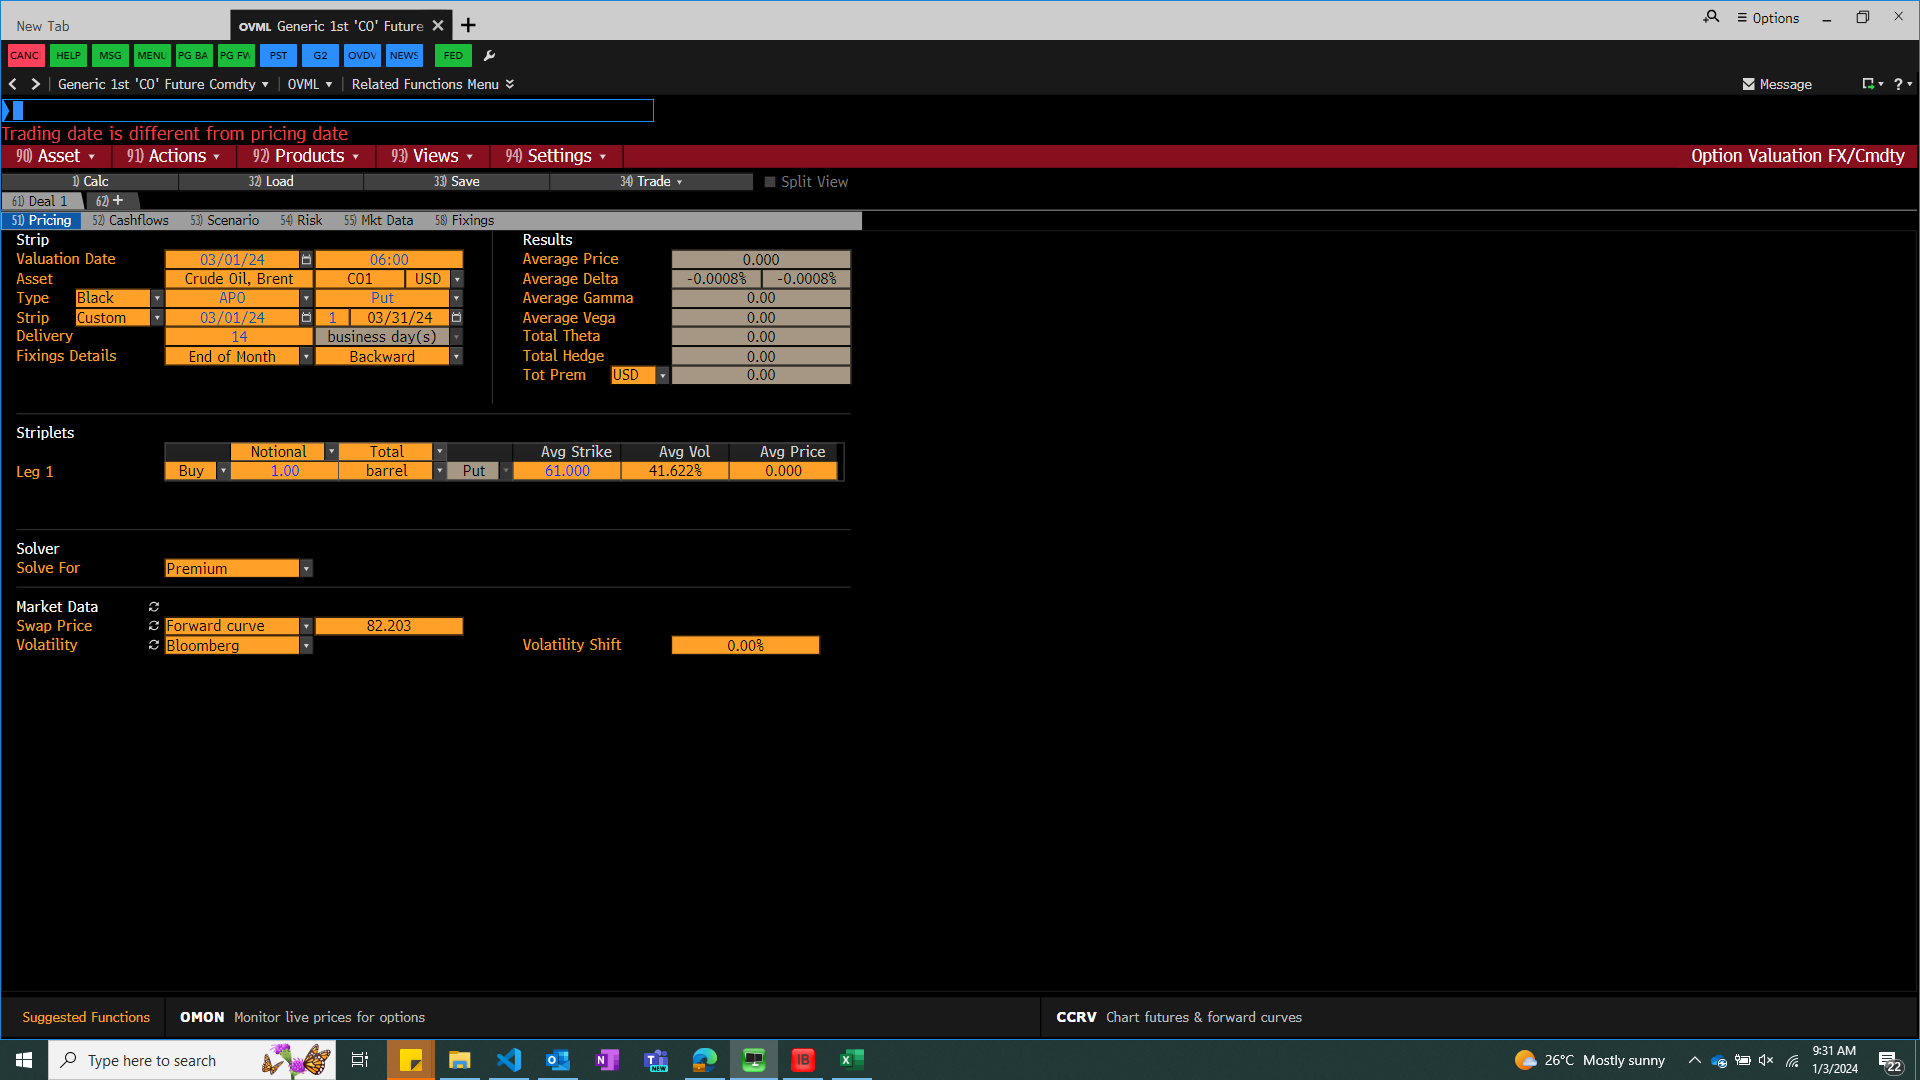
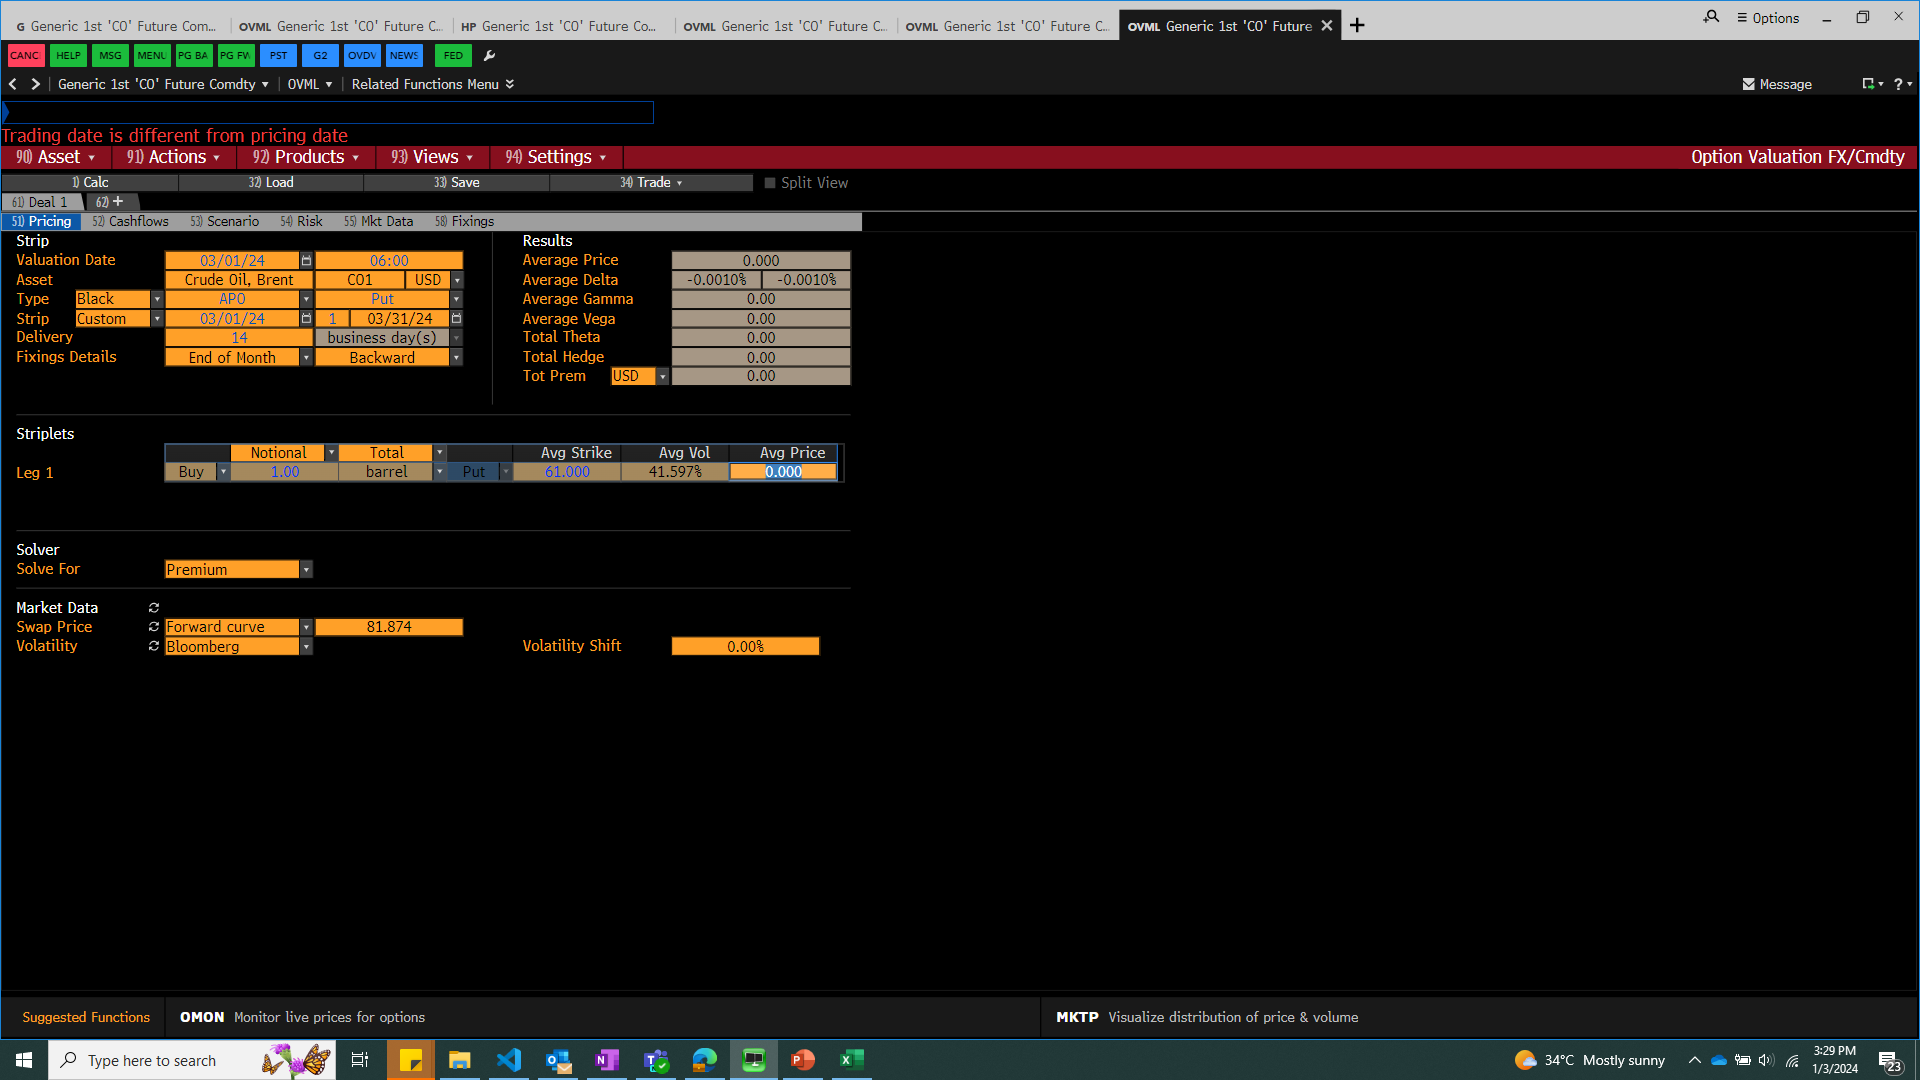
d

diff --git a/MTM_calculator/MTM_Bot.py b/MTM_calculator/MTM_Bot.py
@@ -116,6 +116,7 @@ def main():
         period = [316,278]
         delivery = [223, 298]
         barrel_1 = [267, 431]
+        premium_1 = [760, 431]
         calc_time = [400 ,236]
         Upper_strike = [551, 430]
         calc = [98, 140]
@@ -144,6 +145,7 @@ def main():
         period = [330 ,310]
         delivery = [280, 340]
         barrel_1 = [280, 470]
+        premium_1 = [780, 470]
         calc_time = [361 ,250]
         Upper_strike = [570, 470]
         calc = [82, 181]
@@ -238,10 +240,14 @@ def main():
             else:
                 time.sleep(2)
 
-            pyautogui.moveTo(prem, duration = 0.5)
+            pyautogui.moveTo(premium_1, duration = 0.5)  
+            pyautogui.click()
+            pyautogui.hotkey('ctrl', 'c')
+
+            """pyautogui.moveTo(prem, duration = 0.5)
             pyautogui.click(button='right')
             pyautogui.moveTo(prem_copy, duration = 0.5)
-            pyautogui.click()
+            pyautogui.click()"""
 
             Premium[i][1] = checklevel (pyperclip.paste())
             take_screenshot( str(Month)+'_'+str(k))
